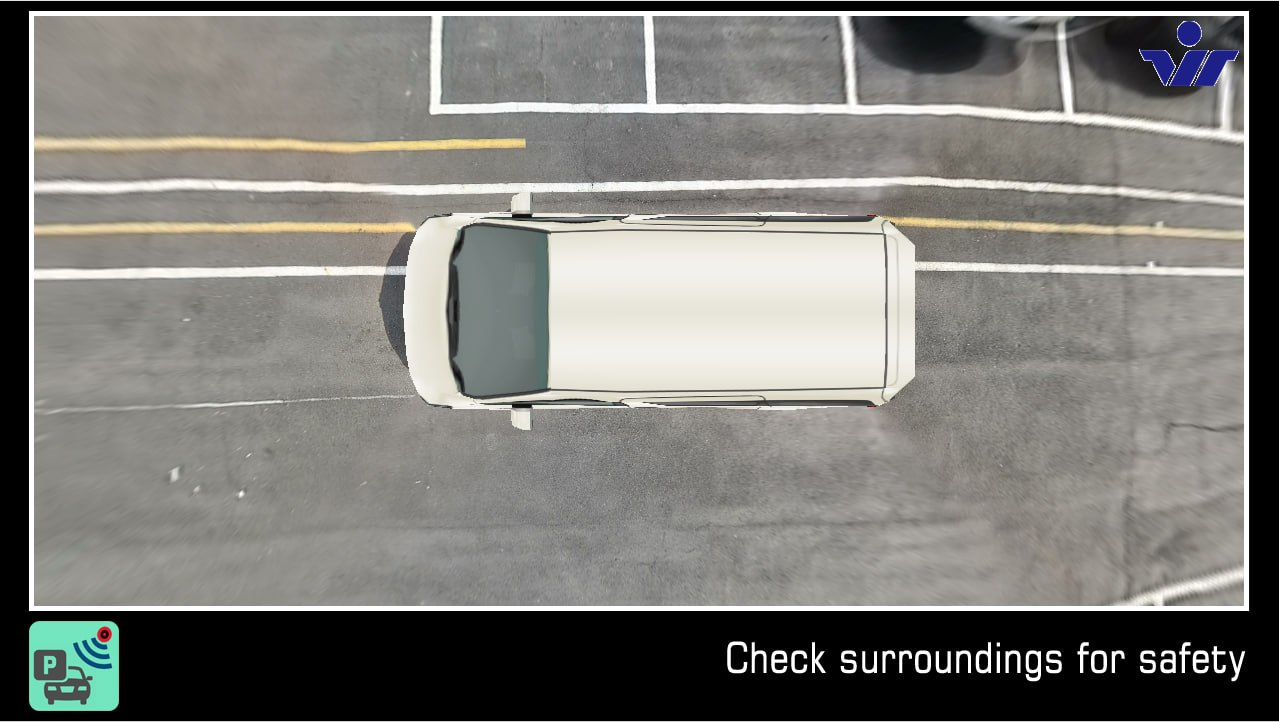
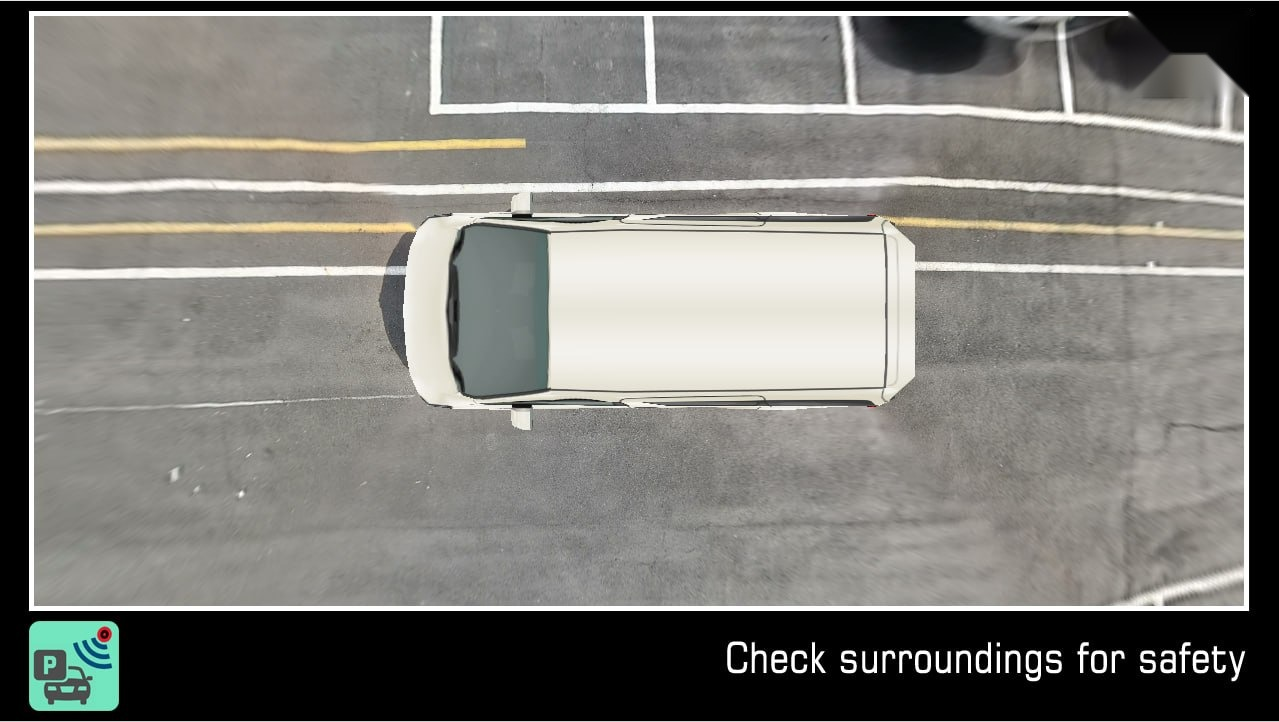
avm-3d 作品集:加示範影片 + 自研版截圖去浮水印
- 專案 schema 加選用 video 欄位({src,caption});ProjectDetail 在 slideshows
  後渲染 <video>(poster=cover,preload=metadata,playsinline)+ caption + CSS。
- avm-3d.md(zh/en)加 video frontmatter;影片 public/projects/avm-3d/demo.mp4。
- self/ 自研版 1/3/5.jpg 用 inpaint 去掉右上輝創 logo(浮水印);.gitignore 加 *.orig。

🤖 Generated with [Claude Code](https://claude.com/claude-code)

Changed region(s): [[0.8843, 0.0, 0.9758, 0.1524]]

diff --git a/site/src/content.config.ts b/site/src/content.config.ts
@@ -23,6 +23,10 @@ const projects = defineCollection({
         }),
       )
       .default([]),
+    // 選用:示範影片(渲染在 slideshows 之後、頁面下方)。
+    video: z
+      .object({ src: z.string(), caption: z.string().optional() })
+      .optional(),
     links: z
       .array(z.object({ label: z.string(), href: z.string() }))
       .default([]),

diff --git a/site/src/content/projects/en/avm-3d.md b/site/src/content/projects/en/avm-3d.md
@@ -21,6 +21,9 @@ slideshows:
       - /projects/avm-3d/thai/3.jpg
       - /projects/avm-3d/thai/4.jpg
 gallery: []
+video:
+  src: /projects/avm-3d/demo.mp4
+  caption: "Self-developed AVM+PLD, live run: 3D surround rotation → front/rear/side views → parking-slot detection → select a slot and send the auto-park signal"
 links:
   - { label: AVM+PLD technical write-up, href: "https://smallkill.github.io/avm-pld-showcase/" }
 featured: true

diff --git a/site/src/content/projects/zh/avm-3d.md b/site/src/content/projects/zh/avm-3d.md
@@ -21,6 +21,9 @@ slideshows:
       - /projects/avm-3d/thai/3.jpg
       - /projects/avm-3d/thai/4.jpg
 gallery: []
+video:
+  src: /projects/avm-3d/demo.mp4
+  caption: "自主研發 AVM+PLD 實機運行:開場 3D 環景旋轉 → 前/後/左/右各視角 → 停車格偵測 → 選定車格、送出自動停車訊號"
 links:
   - { label: AVM+PLD 技術說明, href: "https://smallkill.github.io/avm-pld-showcase/" }
 featured: true